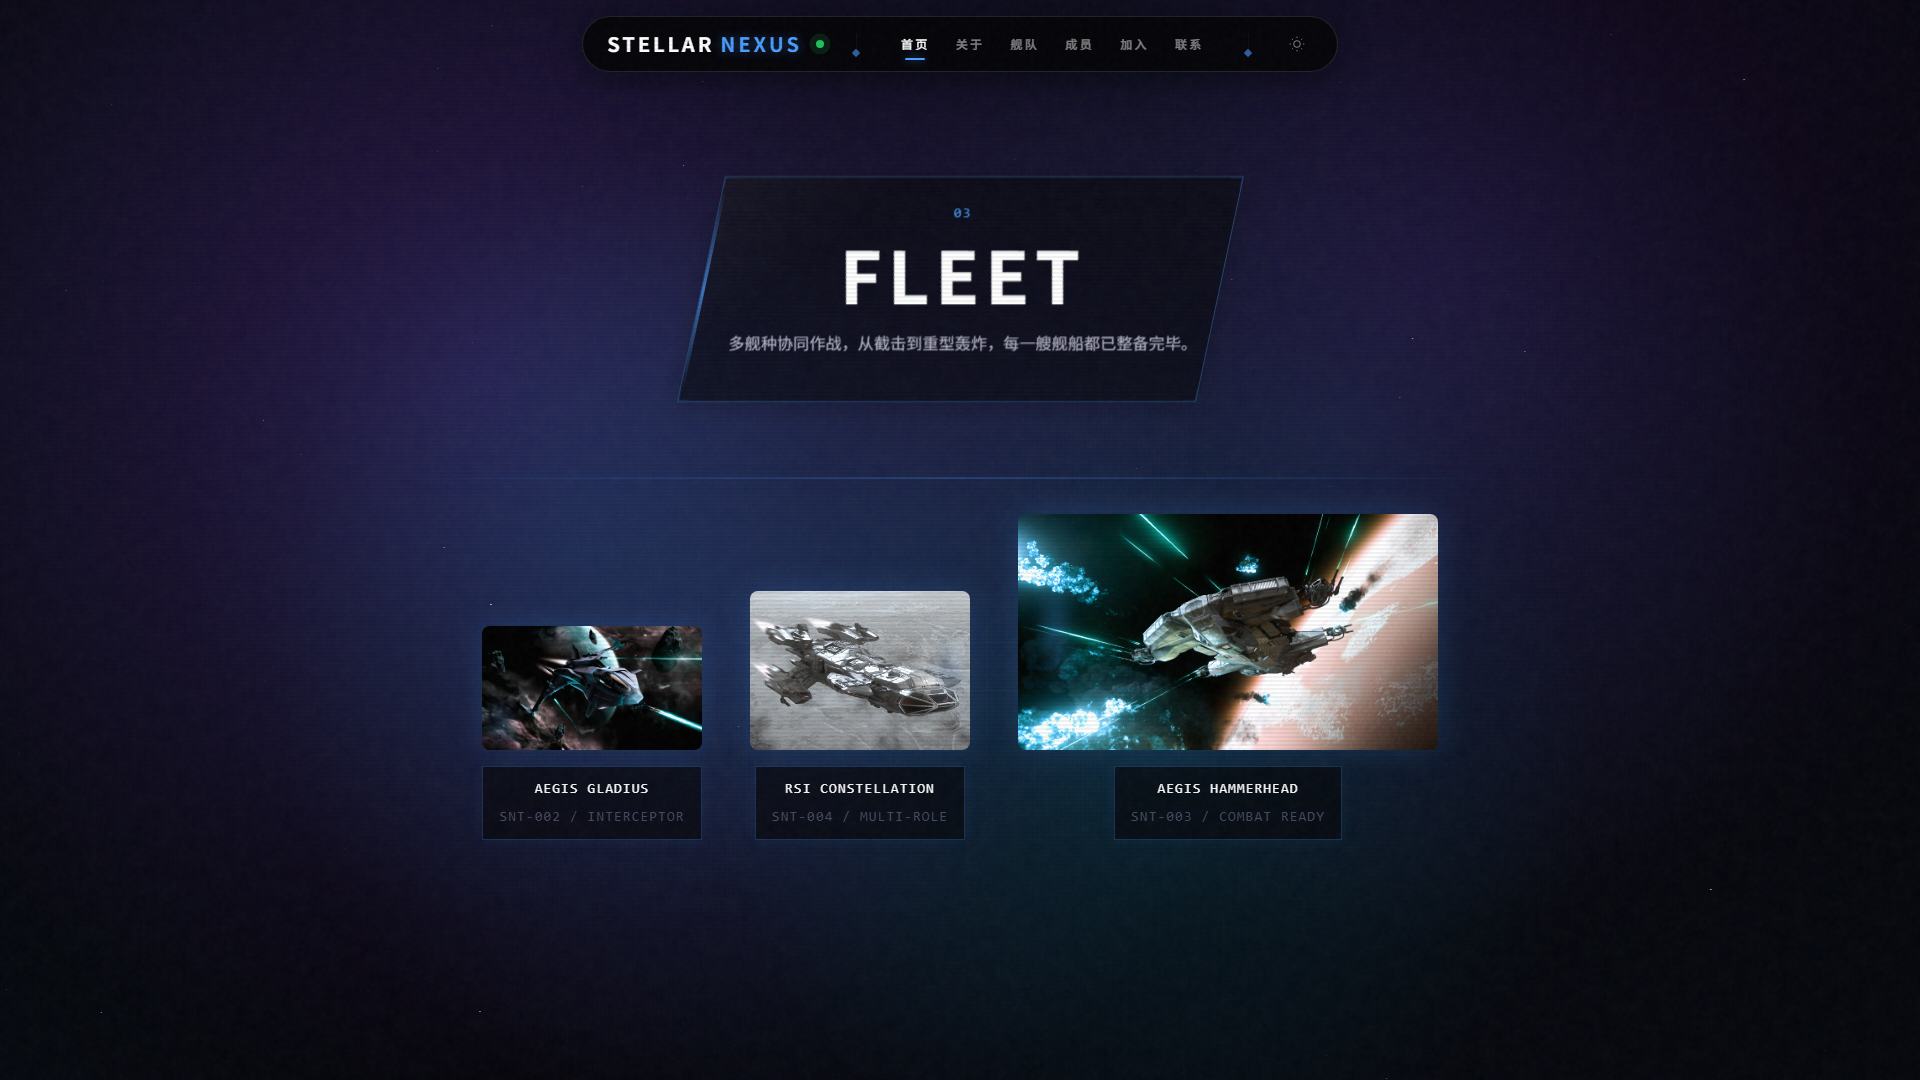
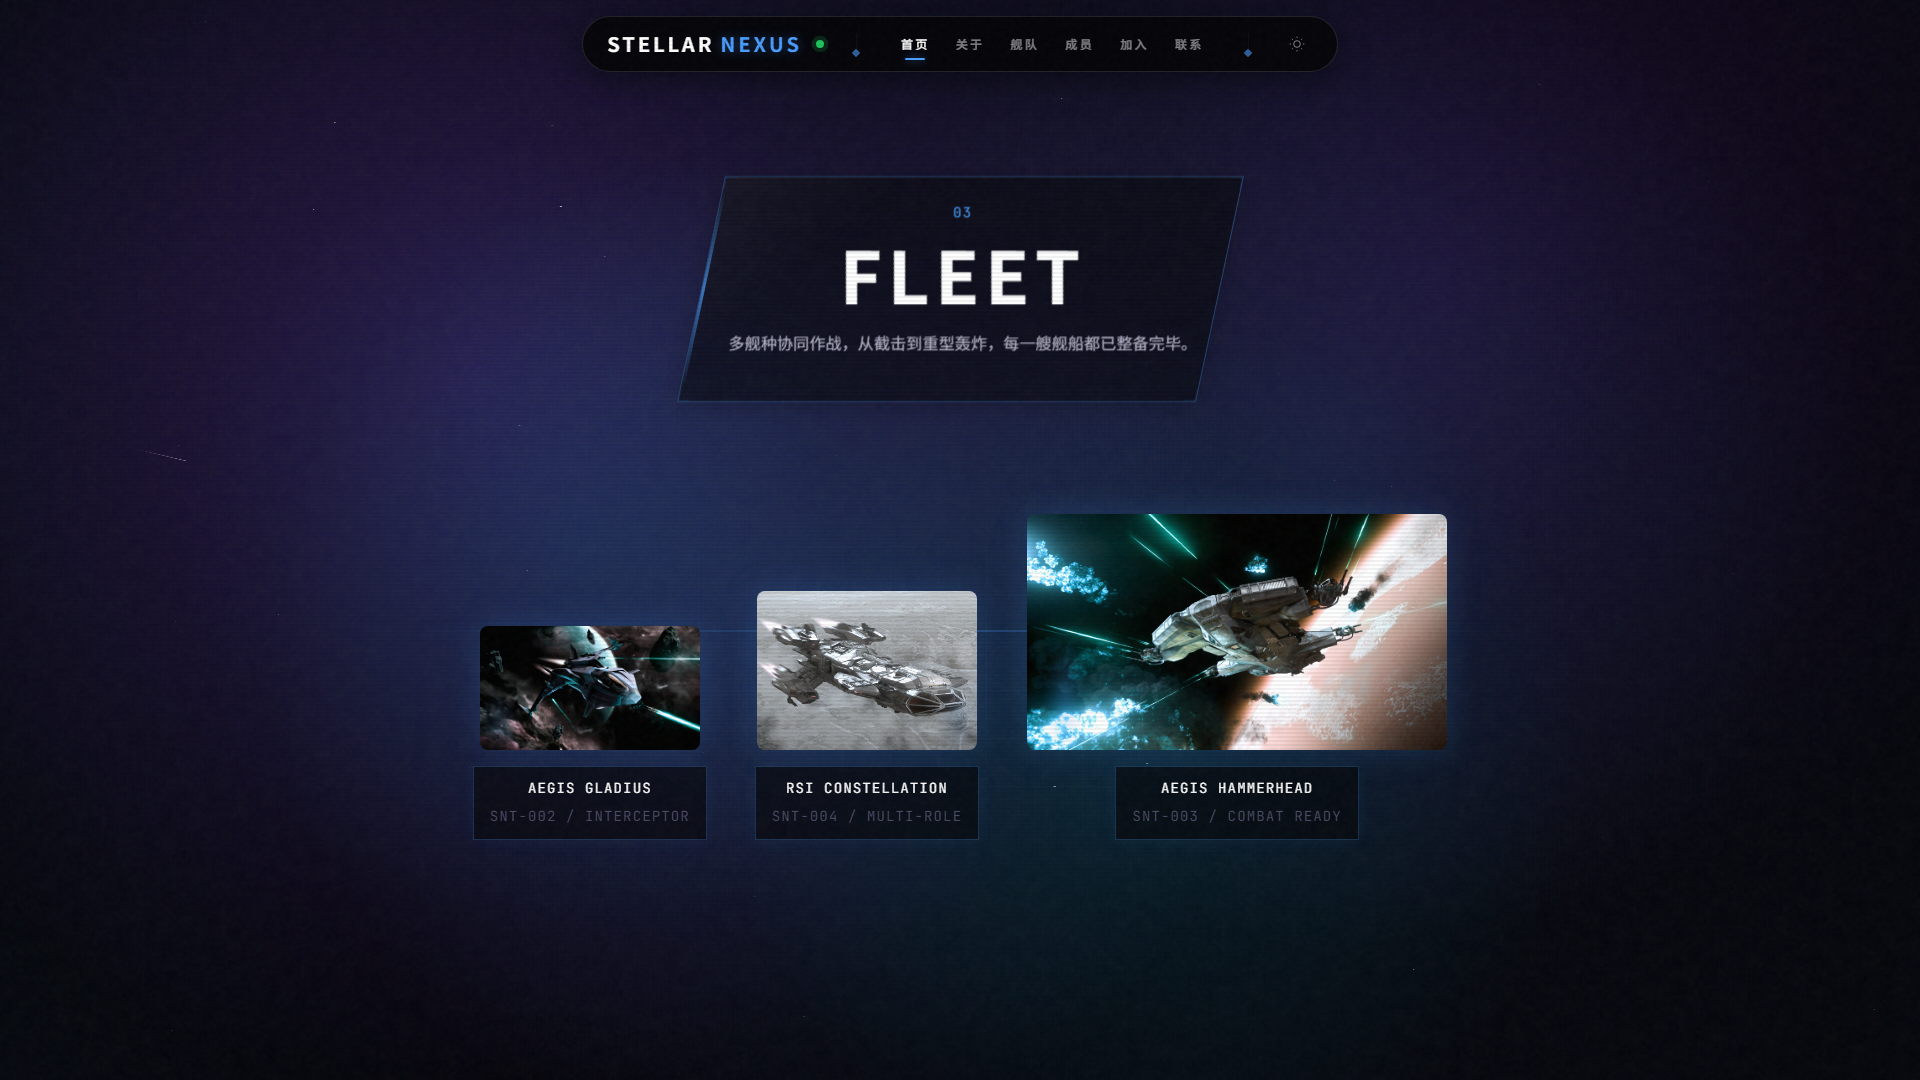
perf(styles): bake Hero background filter into image to boost FPS
- Generate pre-filtered desktop/mobile hero images via Playwright canvas

- Remove real-time CSS filter on full-screen hero background

- Hero FPS: 10.5 -> 33.2, overall baseline: 10.2 -> 26.9

Changed region(s): [[0.2188, 0.4583, 0.7812, 0.7639], [0.5938, 0.4583, 0.625, 0.5194]]

diff --git a/src/views/StellarNexus.vue b/src/views/StellarNexus.vue
@@ -490,11 +490,11 @@ onUnmounted(() => {
 .stellar-nexus__hero-ship-bg {
   position: absolute;
   inset: 0;
-  background-image: url('/assets/cosmic/ships/constellation-andromeda.jpg');
+  /* 使用预过滤图片，避免浏览器每帧实时计算复杂 CSS filter */
+  background-image: url('/assets/cosmic/ships/constellation-andromeda-hero.jpg');
   background-size: cover;
   background-position: 60% 40%;
   background-repeat: no-repeat;
-  filter: brightness(0.55) contrast(1.1) saturate(0.7) sepia(0.2) hue-rotate(165deg);
   opacity: 0.85;
   z-index: 0;
 }
@@ -834,8 +834,8 @@ onUnmounted(() => {
   }
 
   .stellar-nexus__hero-ship-bg {
+    background-image: url('/assets/cosmic/ships/constellation-andromeda-hero-mobile.jpg');
     background-position: 55% 20%;
-    filter: brightness(0.45) contrast(1.1) saturate(0.7) sepia(0.2) hue-rotate(165deg);
   }
 
   .stellar-nexus__hero-backdrop {
